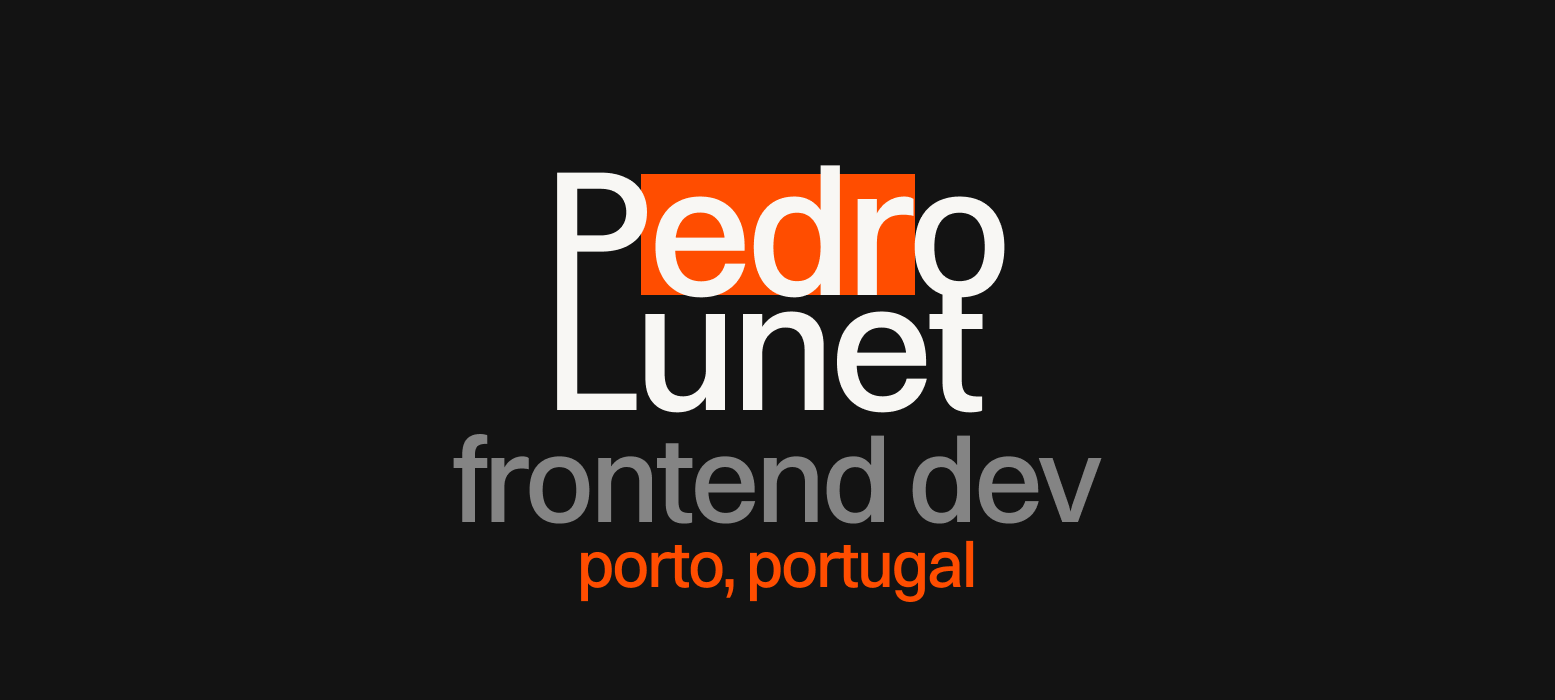
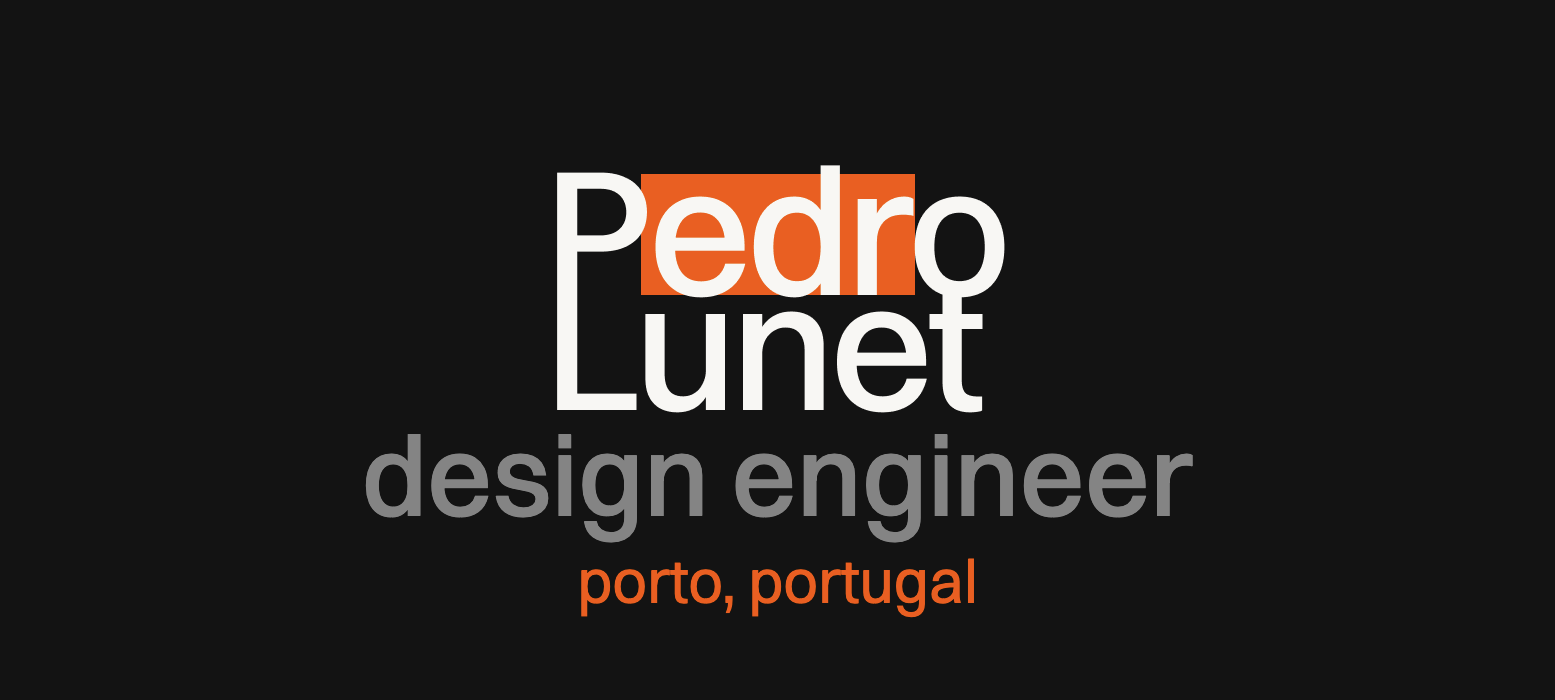
Update portfolio copy and experience details

Changed region(s): [[0.2161, 0.6, 0.7717, 0.87], [0.4013, 0.24, 0.5865, 0.42]]

diff --git a/src/routes/about/+page.svelte b/src/routes/about/+page.svelte
@@ -44,6 +44,9 @@
 		) {
 			return 'future';
 		}
+		const endDate = new Date(job.end);
+		endDate.setMonth(endDate.getMonth() + 1, 1);
+		if (now < endDate) return 'current';
 		return 'past';
 	}
 
@@ -92,7 +95,7 @@
 			"@type": "Person",
 			"name": "Pedro Lunet",
 			"url": "https://pedrolunet.dev",
-			"jobTitle": "Frontend Developer",
+			"jobTitle": "Design Engineer",
 			"address": {
 				"@type": "PostalAddress",
 				"addressLocality": "Porto",
@@ -105,7 +108,7 @@
 
 <SEO
 	title="About - Pedro Lunet"
-	description="My journey from engineering to frontend development. Based in Porto."
+	description="Design Engineer and Informatics and Computing Engineering graduate based in Porto, Portugal."
 />
 
 <div
@@ -152,12 +155,11 @@
 							<p
 								class="m-0 text-xl leading-relaxed font-light text-balance text-text md:text-3xl 2xl:text-5xl 2xl:leading-tight"
 							>
-								I’m a developer based in Porto, dedicated to crafting <span
-									class="border-b border-accent/50 font-normal text-text">smooth</span
+								I'm a <span class="border-b border-accent/50 font-normal text-text"
+									>Design Engineer</span
 								>
-								and
-								<span class="border-b border-accent/50 font-normal text-text">meaningful</span> digital
-								experiences.
+								and Informatics and Computing Engineering graduate based in
+								<span class="border-b border-accent/50 font-normal text-text">Porto</span>.
 							</p>
 						</div>
 
@@ -165,19 +167,18 @@
 							class="fade-in-text flex translate-y-8 flex-col gap-6 text-base leading-loose text-pretty text-text-secondary opacity-0 md:text-lg 2xl:gap-10 2xl:text-2xl 2xl:leading-loose"
 						>
 							<p class="m-0">
-								Currently a student and a frontend developer, my work is driven by the belief that
-								the distance between a line of code and a visual emotion should be as small as
-								possible.
+								I earned a BSc in Informatics and Computing Engineering from the University of Porto
+								in July 2026. My work is guided by the belief that code and visual intent should
+								stay closely connected.
 							</p>
 							<p class="m-0">
-								Although my background is rooted in engineering rather than design, I treat
-								aesthetics as a core technical requirement. I believe that in our current digital
-								landscape, the way a project feels is just as critical as how it functions.
+								My engineering background shapes how I approach interfaces: usability, aesthetics,
+								and implementation are all technical concerns. How a product feels matters just as
+								much as how it functions.
 							</p>
 							<p class="m-0">
-								My focus is on bridging that gap. Using technical precision to build interfaces that
-								aren't just usable, but genuinely enjoyable to interact with. The goal is always the
-								same: making the web a more refined and beautiful destination.
+								I focus on translating ideas into clear, polished interfaces that are enjoyable to
+								use.
 							</p>
 						</div>
 					</div>

diff --git a/src/routes/mural/+page.svelte b/src/routes/mural/+page.svelte
@@ -70,7 +70,7 @@
 
 <SEO
 	title="Mural - Pedro Lunet"
-	description="Leave a message on the mural wall. A space for thoughts, shoutouts, or whatever you want to share."
+	description="Leave a message on the mural: a space for thoughts, shout-outs, and anything you want to share."
 />
 
 {#if error}
@@ -116,8 +116,8 @@
 			Mural
 		</h1>
 		<p class="mt-4 max-w-xl text-base leading-relaxed text-text-secondary 2xl:mt-6 2xl:text-lg">
-			A wall for thoughts, shoutouts, or whatever's on your mind. Leave your mark, say hi, and be
-			part of the mural.
+			A space for thoughts, shout-outs, or whatever is on your mind. Leave a message and be part of
+			the mural.
 		</p>
 	</div>
 
@@ -202,7 +202,7 @@
 					class="group relative flex w-full shrink-0 items-center justify-center border border-text/20 px-8 py-3 text-xs font-bold tracking-widest text-text uppercase transition-all duration-300 hover:border-accent hover:bg-accent hover:text-bg disabled:cursor-not-allowed disabled:opacity-30 disabled:hover:border-text/20 disabled:hover:bg-transparent disabled:hover:text-text md:w-auto 2xl:px-10 2xl:py-4 2xl:text-sm"
 				>
 					<span class="inline-flex items-center gap-3 2xl:gap-4" class:invisible={loading}>
-						<span>Post on Wall</span>
+						<span>Post to Wall</span>
 						<Send
 							size={14}
 							class="transition-transform duration-300 {!name || !message || loading

diff --git a/src/lib/components/seo.svelte b/src/lib/components/seo.svelte
@@ -2,8 +2,8 @@
 	import { page } from '$app/state';
 
 	let {
-		title = 'Pedro Lunet - Frontend Developer',
-		description = 'Frontend Developer based in Porto, creating smooth and meaningful digital experiences.',
+		title = 'Pedro Lunet - Design Engineer',
+		description = 'Pedro Lunet is a Design Engineer based in Porto, Portugal.',
 		image = 'https://pedrolunet.dev/og-image.png',
 		type = 'website'
 	} = $props();

diff --git a/src/routes/work/+page.svelte b/src/routes/work/+page.svelte
@@ -10,7 +10,7 @@
 
 <SEO
 	title="Work - Pedro Lunet"
-	description="Selected projects and experiments in frontend development, UI/UX design, and interactive web experiences."
+	description="Selected projects and interactive web experiments by Pedro Lunet, a Design Engineer based in Porto."
 />
 
 <div class="grid grid-cols-1 gap-12 lg:grid-cols-12 2xl:gap-32">

diff --git a/src/routes/contact/+page.svelte b/src/routes/contact/+page.svelte
@@ -52,7 +52,7 @@
 
 <SEO
 	title="Contact - Pedro Lunet"
-	description="Get in touch for collaborations, freelance opportunities, or just to say hello. Based in Porto, Portugal."
+	description="Get in touch with Pedro Lunet, a Design Engineer based in Porto, Portugal."
 />
 
 {#if showSuccessPopup}

diff --git a/src/routes/+error.svelte b/src/routes/+error.svelte
@@ -22,7 +22,7 @@
 			href="/"
 			class="text-lg font-extralight tracking-tight text-text underline decoration-accent underline-offset-4 transition-transform duration-300 hover:scale-110 md:text-xl 2xl:text-2xl"
 		>
-			go back to home page
+			go back to the home page
 		</a>
 	</div>
 

diff --git a/src/lib/components/landing/hero.svelte b/src/lib/components/landing/hero.svelte
@@ -25,7 +25,7 @@
 <h2
 	class="hero-text invisible mt-4 text-2xl font-medium tracking-tight text-text-secondary md:mt-5 md:text-3xl lg:mt-6 lg:text-5xl 2xl:mt-8 2xl:text-5xl"
 >
-	frontend dev
+	design engineer
 </h2>
 
 <h3
